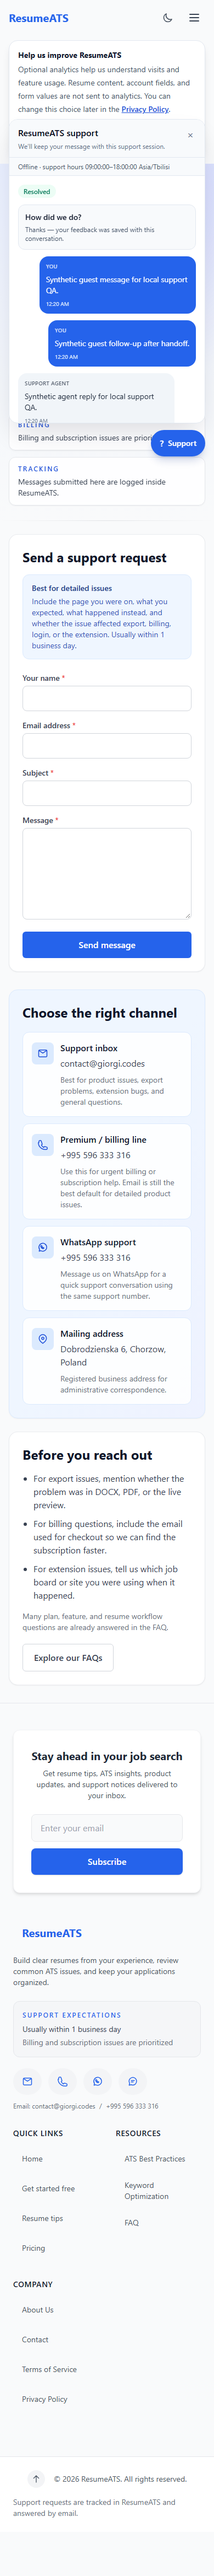
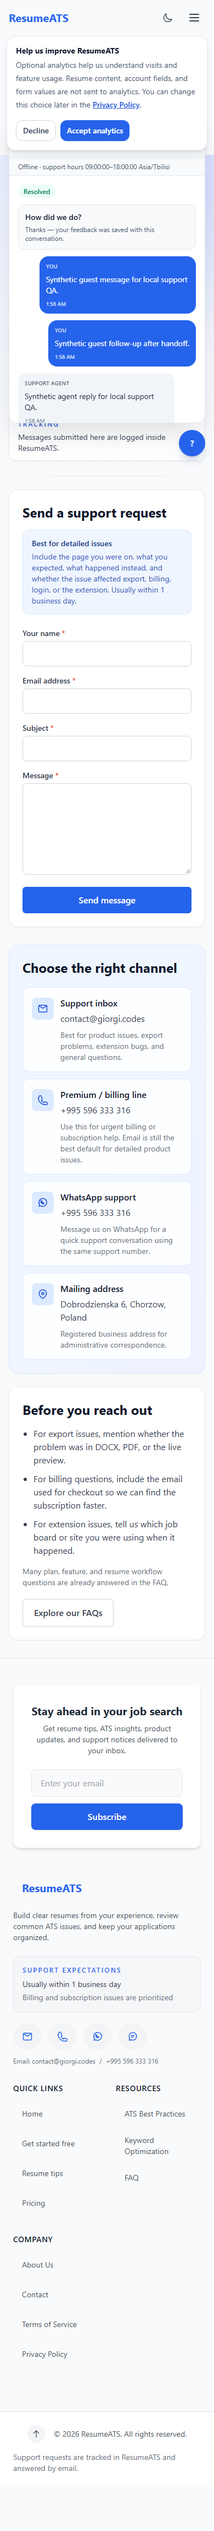
Complete dashboard and support QA evidence

diff --git a/tests/qaScriptContracts.test.js b/tests/qaScriptContracts.test.js
@@ -176,6 +176,15 @@ test('mobile support trigger stays compact without losing its accessible name', 
   assert.match(styles, /\.support-widget-root \.support-widget-trigger-label \{[\s\S]*?display: none/);
 });
 
+test('support browser QA targets the trigger accessible name', () => {
+  const support = read('src/components/support/SupportWidget.jsx');
+  const qa = read('tests/playwright/support-local-qa.mjs');
+
+  assert.match(support, /aria-label=\{open \? 'Close support dialog' : 'Open support dialog'\}/);
+  assert.equal((qa.match(/getByRole\('button', \{ name: 'Open support dialog', exact: true \}\)/g) || []).length, 4);
+  assert.match(qa, /adminPage\.getByRole\('button', \{ name: 'Support', exact: true \}\)/);
+});
+
 test('responsive audit measures heading clearance from fixed header only', () => {
   const responsiveAudit = read('scripts/responsive-audit.mjs');
 

diff --git a/docs/admin-dashboard-plan/evidence/implementation-status.md b/docs/admin-dashboard-plan/evidence/implementation-status.md
@@ -4,12 +4,13 @@ Checked 2026-09-10 (Asia/Tbilisi) against the current `main` checkout and the li
 
 ## Release under review
 
-- Commit: `e678a41` — read-only production capability audit, on top of the consent-banner release.
-- GitHub: `origin/main` is one documentation-only commit behind this local
-  checkout; no push was made during this audit continuation.
+- Commit: current `main` checkout includes `a3a1cea` and `2a8dea6` on top of
+  `48c0fc5`; the focused support-QA selector changes are pending validation.
+- GitHub: `origin/main` is behind the current local evidence commits; the
+  focused changes will be pushed after validation.
 - Vercel: the production deployment for the release reached `Ready`; canonical aliases are `https://www.resumeats.cv` and `https://resumeats.cv`.
 - Production HTTP audit: `npm run audit:production:http` passed with `failures: []` at `2026-09-09T21:41:59Z`.
-- Full automated suite: `npm test -- --test-concurrency=1 --test-timeout=60000` passed with 1,195 tests; lint and `npm run build` also passed.
+- Full automated suite: `npm test -- --test-concurrency=1 --test-timeout=60000` passed with 1,196 tests; lint and `npm run build` also passed.
 - Supabase capability audit: `npm run audit:production:capabilities` is read-only; it observed 76 local/remote migration versions, all 29 local functions represented among 31 deployed functions, payment/email credential names present, worker credential groups missing, and scheduler status `unverified`.
 
 ## Ordered work packages
@@ -23,8 +24,8 @@ Checked 2026-09-10 (Asia/Tbilisi) against the current `main` checkout and the li
 | E04 | in_progress | Entitlement/billing migrations and functions deployed | Local overlap/expiry/provider tests and deployed function inventory | Provider sandbox replay, reconciliation scheduler and unexplained-difference review remain open. |
 | E05 | in_progress | Directory/customer-360 implementation | Local cursor/ownership/scale tests | Authenticated production customer-detail and export/deletion checks remain open. |
 | E06 | in_progress | Admin UI and team flows | Local owner/browser evidence | Invitation delivery and production role-management verification remain open. |
-| E07 | in_progress | Analytics consent/funnel implementation | Local tests plus live GA4 consent-gating/client-delivery check recorded in `20260910-production-capabilities.md` | GA processed-report freshness, property authorization and server-side reporting credentials are not verified. |
-| E08 | in_progress | First-party analytics/admin reporting code | Local metric/reconciliation/export tests | GA reporting cache, mature cohorts, live freshness and production admin drill-down remain open. |
+| E07 | in_progress | Analytics consent/funnel implementation | Local tests plus live GA4 consent-gating/client-delivery check recorded in `20260910-production-capabilities.md`; saved dashboard evidence in `20260910-ga4-dashboard.md` | GA processed-report freshness, property authorization and server-side reporting credentials are not verified. |
+| E08 | in_progress | First-party analytics/admin reporting code | Local metric/reconciliation/export tests plus the saved GA4 `ResumeATS Growth & Conversion` dashboard | GA reporting cache, mature cohorts, live freshness and production admin drill-down remain open. |
 | E09 | in_progress | Billing projection/reconciliation functions | Local provider-contract tests; functions deployed | Scheduler, provider sandbox replay, webhook/reconciliation evidence and authenticated production UI remain open. |
 | E10 | in_progress | Disabled-by-default billing action worker | Local idempotency/worker safety tests | Capability policy review and provider sandbox execution are intentionally not enabled. |
 | E11 | in_progress | Support persistence and guest boundaries | Local RLS/API/browser support evidence | Hosted delivery/reconnect and production authenticated support verification remain open. |
@@ -34,7 +35,7 @@ Checked 2026-09-10 (Asia/Tbilisi) against the current `main` checkout and the li
 | E15 | blocked | Support AI worker deployed but gated | Local fail-closed/structured-output/handoff tests | Approved provider/model, region/data policy, budget owner, secrets, scheduler and adversarial review are missing. |
 | E16 | in_progress | Admin jobs/settings/feedback surfaces | Local browser and contract tests | Production operator verification and configured integrations remain open. |
 | E17 | blocked | Privacy workers deployed but gated | Local hold/export/deletion worker tests | Staging backup/restore and destructive deletion drill, provider reconciliation and scheduler are missing. |
-| E18 | blocked | Current automated/local gates pass | 1,195 tests, build/lint, local browser evidence, public production smoke | Actual supported-browser staging/provider/performance/accessibility evidence and authenticated production journeys are incomplete. |
+| E18 | blocked | Current automated/local gates pass | 1,196 tests, build/lint, local browser evidence, public production smoke | Actual supported-browser staging/provider/performance/accessibility evidence and authenticated production journeys are incomplete. |
 | E19 | blocked | No production scheduler/alert mutation made | Capability audit records scheduler `unverified` | Named operators/recipients, runbooks, backup/restore drill, RPO/RTO evidence, staffing and retention sign-off are missing. |
 | E20 | in_progress | `e678a41`; Vercel production `Ready` | GitHub push, Vercel status, live HTTP audit and live GA client check | The full completion gate is not met while any required integration remains unverified, inaccessible or intentionally disabled. |
 
@@ -47,4 +48,4 @@ Local tests prove implementation contracts and isolation behavior; they do not p
 1. Reconcile hosted Supabase schema/RLS/grants, memberships and Auth configuration with an authorized read-only production check.
 2. Create an isolated staging environment with approved operator/provider policies, scheduler identities, alert recipients and runbooks.
 3. Exercise provider sandbox webhook/reconciliation/action flows, support email/scanner flows, backup restore, privacy export/deletion, and authenticated admin/customer/guest journeys.
-4. Obtain GA reporting access and verify processed events/freshness; then repeat the complete E18–E20 acceptance matrix before claiming the plan complete.
+4. Obtain GA reporting access and verify processed events/freshness; then repeat the complete E18–E20 acceptance matrix before claiming the plan complete. The saved dashboard is an operational view, not a substitute for that verification.

diff --git a/docs/audit-2026-09-09/ui-runtime-audit.md b/docs/audit-2026-09-09/ui-runtime-audit.md
@@ -325,10 +325,13 @@ Escape closes it, Tab stays within it, and focus returns to the opener.
 84. Widened and tightened the compact workspace consent card so authenticated
    application summaries remain visible near the desktop fold while keeping
    the consent actions readable at mobile widths.
+85. Aligned the dedicated support browser QA with the trigger's accessible name
+   and the admin navigation control; the guest/operator support journey now
+   passes through recovery, isolation, handoff, resolution, and CSAT.
 
 ## Current local gates
 
-- `npm test`: 1,195 passed, 0 failed, 0 skipped.
+- `npm test`: 1,196 passed, 0 failed, 0 skipped.
 - `npm run lint`: pass.
 - Native button semantics: `react/button-has-type` reports zero violations
   across `src`, with submit actions kept explicit and all other controls
@@ -352,6 +355,9 @@ Escape closes it, Tab stays within it, and focus returns to the opener.
   selection -> preview -> DOCX download and PDF download both pass locally.
 - Fixture-backed website QA: all 15 authenticated/profile/application/mobile
   steps pass with no page errors, console errors, or blocked requests.
+- Dedicated support browser QA: guest recovery, session isolation, human
+  handoff, operator note isolation, resolution, CSAT, and overflow checks pass
+  with no console or page errors.
 - Local route smoke: all 30 public and protected-route checks pass, including
   safe missing-payment-return states and preview-service identity validation.
 - Responsive audit: 60 route/viewport captures pass with no horizontal overflow

diff --git a/docs/admin-dashboard-plan/evidence/20260910-ga4-dashboard.md b/docs/admin-dashboard-plan/evidence/20260910-ga4-dashboard.md
@@ -1,0 +1,22 @@
+# GA4 dashboard evidence — 2026-09-10
+
+## Saved dashboard
+
+- Property: ResumeATS (GA4 property `552904382`; account `386612499`).
+- Dashboard: `ResumeATS Growth & Conversion`.
+- Description: `ResumeATS acquisition, engagement, and conversion monitoring dashboard.`
+- Save result: Google Analytics displayed `Dashboard saved`; the new report appeared in Library and reopened successfully at report id `15749841317`.
+- Scope: the dashboard was saved for the current Analytics user and was not published to a shared collection.
+
+## Included views
+
+- User key event rate — GA4's current conversion-rate metric terminology.
+- New users.
+- Key events.
+- Active users over time by Page path + query string.
+
+The reopened dashboard showed the four configured cards and the configured last-28-days date range. The values visible at save time are an Analytics UI snapshot only; they are not used as proof of production reporting freshness or business conversion performance.
+
+## Boundary
+
+This proves the dashboard artifact was created and persisted in the linked GA4 property. It does not prove processed-event freshness, server-side Reporting API access, attribution correctness, or that every expected production event is being received.
